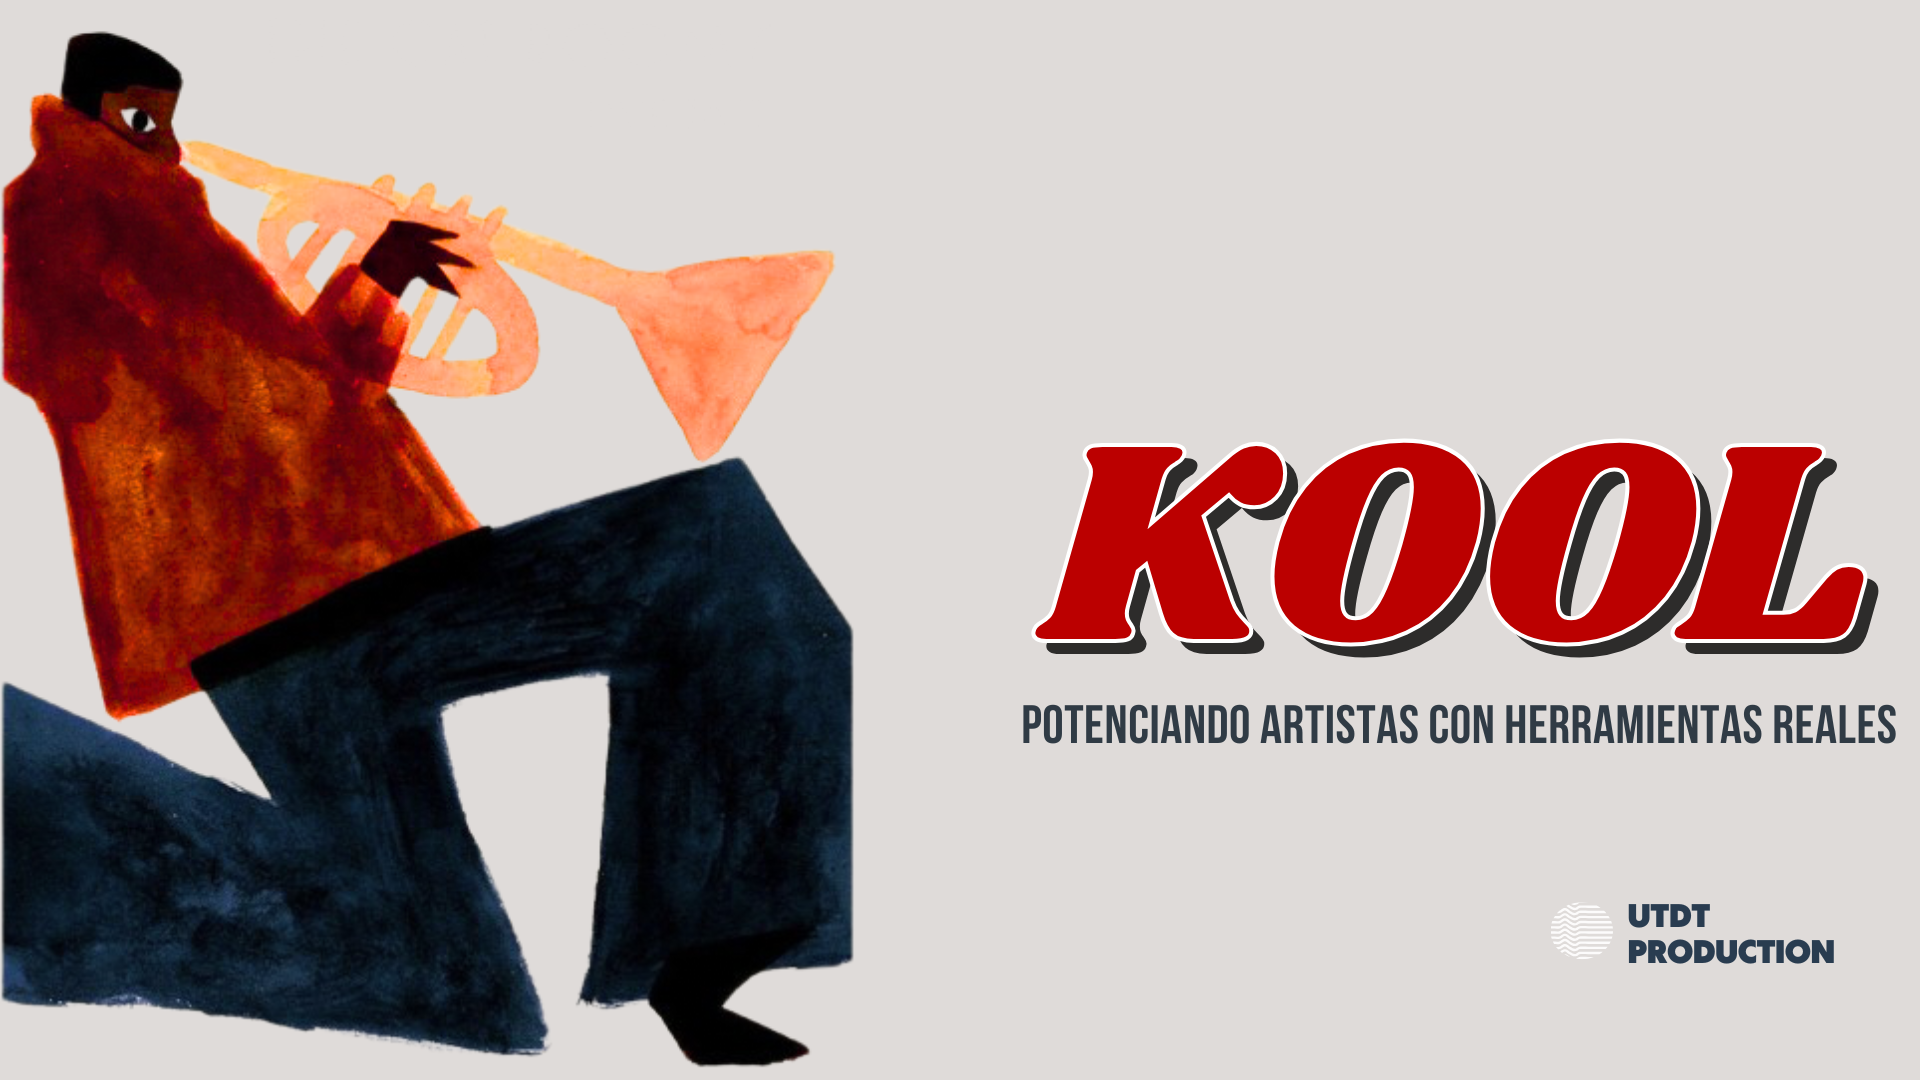
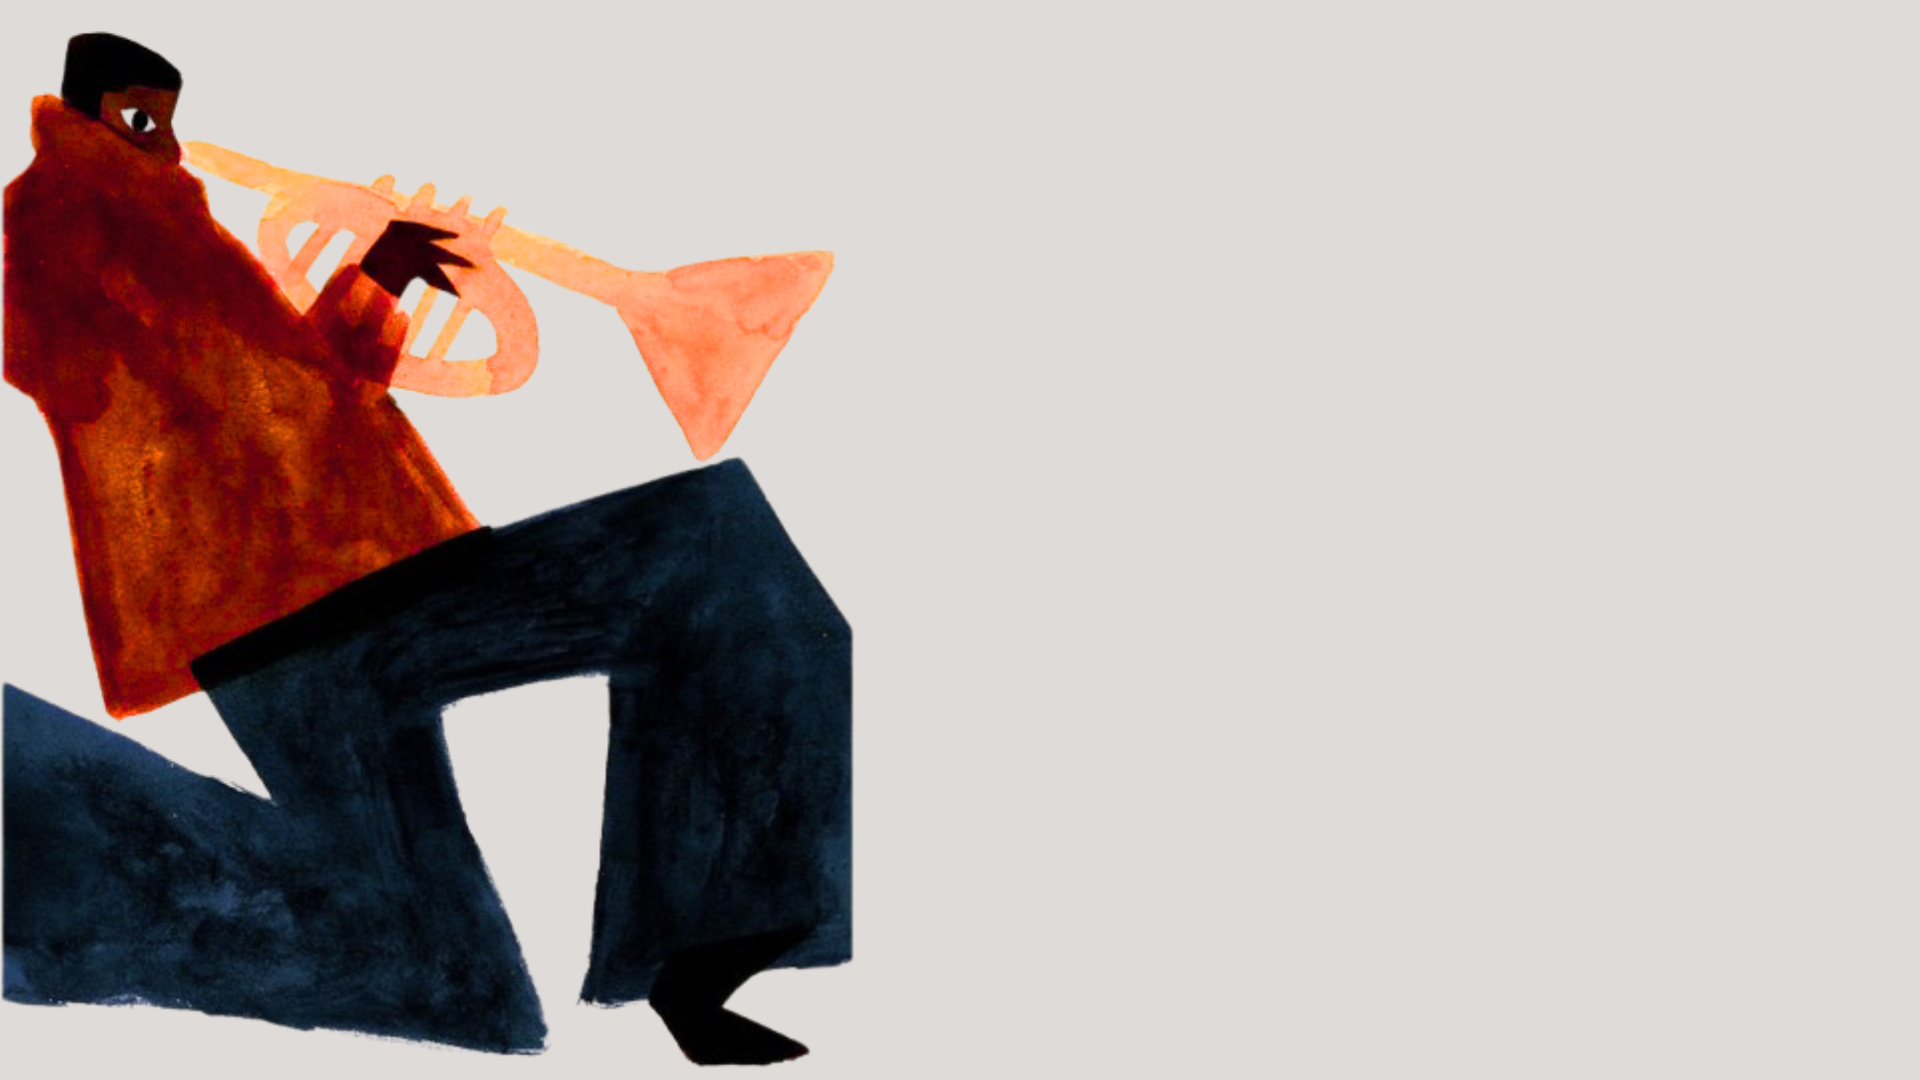
HeroSection changed

Changed region(s): [[0.5312, 0.3972, 1.0, 0.6111], [0.5312, 0.6417, 1.0, 0.7028], [0.8125, 0.825, 0.9688, 0.9167]]

diff --git a/components/hero-article.tsx b/components/hero-article.tsx
@@ -1,73 +1,35 @@
 import { Button } from "@/components/ui/button"
+import Link from "next/link"
 
 export default function HeroArticle() {
   return (
-    <section className="my-8">
-      <div className="grid grid-cols-1 lg:grid-cols-12 gap-6 lg:grid-rows-1">
-        {/* Main feature - made to fill the full height */}
-        <div className="lg:col-span-8 relative h-full flex flex-col">
-          <div className="absolute top-0 left-0 bg-primary text-white px-4 py-1 text-sm font-bold z-10">
-            EXCLUSIVE
-          </div>
-          <div className="relative flex-1 overflow-hidden">
-            <img
-              src="/images/KOOL.png"
-              alt="AI Music Revolution"
-              className="w-full h-full object-cover"
-            />
-            <div className="absolute inset-0 bg-gradient-to-t from-black/80 to-transparent"></div>
-            <div className="absolute bottom-0 left-0 right-0 p-6 text-white">
-              <h2 className="text-4xl md:text-6xl font-black leading-tight mb-4">
-                STRATEGY NEVER LOOKED THIS KOOL
-              </h2>
-              <p className="text-xl md:text-2xl font-medium mb-6 max-w-3xl">
-              Kool is your AI-powered strategist — built to grow your project. We give you the insights and tools a pro manager would — without the middleman. Your music. Your vision. Your strategy.
-
-              </p>
-              <div className="flex items-center text-white/80 text-sm mb-4">
-                <span className="font-bold mr-2">By Juan Obstrovsky</span>
-                <span>May 19, 2025</span>
-              </div>
-              <Button className="bg-primary hover:bg-primary/90 text-white">Read More</Button>
-            </div>
-          </div>
-        </div>
-
-        {/* Side articles */}
-        <div className="lg:col-span-4 flex flex-col space-y-6 h-full">
-          <div className="border-b border-secondary pb-6">
-            <div className="bg-secondary text-white inline-block px-3 py-1 text-xs font-bold mb-3">THE FUTURE</div>
-            <h3 className="text-2xl font-bold mb-2">How AI Is Changing The Way Artists Create Music</h3>
-            <p className="text-secondary/70 mb-2">
-              We believe that every artist deserves the chance to grow, connect and monetize — regardless of time, money or access. KOOL was built to remove the friction that stops most emerging talents from going pro
-            </p>
-            <div className="text-xs text-secondary/60">
-              <span className="font-bold">By Guadalupe Cardiello</span> • May 15, 2025
-            </div>
-          </div>
-
-          <div className="border-b border-secondary pb-6">
-            <div className="bg-primary text-white inline-block px-3 py-1 text-xs font-bold mb-3">SUCCESS STORY</div>
-            <h3 className="text-2xl font-bold mb-2">"I Went From 100 to 100,000 Monthly Listeners"</h3>
-            <p className="text-secondary/70 mb-2">
-              Indie artist Jamie Taylor shares how KOOL's AI manager transformed his career in just 6 months
-            </p>
-            <div className="text-xs text-secondary/60">
-              <span className="font-bold">By Francisco Morchio</span> • May 12, 2025
-            </div>
-          </div>
-
-          <div>
-            <div className="bg-secondary text-white inline-block px-3 py-1 text-xs font-bold mb-3">NEW RELEASE</div>
-            <h3 className="text-2xl font-bold mb-2">KOOL Launches Advanced Task Tracking Feature</h3>
-            <p className="text-secondary/70 mb-2">
-              New AI-powered tool helps artists track and maximize their streaming across all platforms
-            </p>
-            <div className="text-xs text-secondary/60">
-              <span className="font-bold">By Faustina Bagnat</span> • May 10, 2025
-            </div>
-          </div>
-        </div>
+    <section className="h-screen relative flex items-center justify-center">
+      {/* Imagen de fondo que cubre toda la pantalla */}
+      <div className="absolute inset-0 w-full h-full z-0">
+        <img
+          src="/images/KOOL.png"
+          alt="KOOL Background"
+          className="w-full h-full object-cover"
+        />
+        {/* Overlay para mejorar legibilidad del texto */}
+        <div className="absolute inset-0 bg-black/40"></div>
+      </div>
+      
+      {/* Contenido centrado */}
+      <div className="relative z-10 text-center max-w-4xl mx-auto px-6">
+        <h1 className="text-5xl md:text-7xl font-black text-white mb-6">
+          Strategy Never Looked This <span className="text-primary">KOOL</span>
+        </h1>
+        
+        <p className="text-xl md:text-2xl font-medium mb-10 text-white">
+          Kool is your AI-powered strategist — built to grow your project. We give you the insights and tools a pro manager would — without the middleman. Your music. Your vision. Your strategy.
+        </p>
+        
+        <Link href="/auth/signup">
+          <Button className="bg-primary hover:bg-primary/90 text-white px-8 py-4 text-lg">
+            Get Started
+          </Button>
+        </Link>
       </div>
     </section>
   )

diff --git a/components/magazine-header.tsx b/components/magazine-header.tsx
@@ -130,8 +130,8 @@ export default function MagazineHeader() {
       </div>
 
       {/* Main navigation */}
-      <div className="container mx-auto px-4 py-3 flex items-center justify-between">
-        <button className="md:hidden" onClick={() => setIsMenuOpen(!isMenuOpen)}>
+      <div className="container mx-auto px-4 py-3 flex items-center justify-center relative">
+        <button className="md:hidden absolute left-4" onClick={() => setIsMenuOpen(!isMenuOpen)}>
           {isMenuOpen ? <X size={24} /> : <Menu size={24} />}
         </button>
 
@@ -177,22 +177,12 @@ export default function MagazineHeader() {
             </Link>
           )}
         </nav>
-
-        <div className="flex items-center">
-          {!userSubscription && (
-            <Link href="#pricing">
-              <Button className="bg-primary hover:bg-primary/90 text-white rounded-none">
-                Subscribe
-              </Button>
-            </Link>
-          )}
-        </div>
       </div>
 
       {/* Mobile menu */}
       {isMenuOpen && (
         <div className="md:hidden border-t-2 border-secondary">
-          <nav className="container mx-auto px-4 py-4 flex flex-col space-y-4 font-bold text-sm uppercase">
+          <nav className="container mx-auto px-4 py-4 flex flex-col items-center space-y-4 font-bold text-sm uppercase">
             {!isHomePage && (
               <Link href="/" className="hover:text-primary py-2 border-b-2 border-secondary flex items-center gap-2">
                 <Home size={16} />

diff --git a/app/layout.tsx b/app/layout.tsx
@@ -1,7 +1,7 @@
 import type { Metadata } from 'next'
 import './globals.css'
-import MagazineHeader from '@/components/magazine-header'
 import { ThemeProvider } from '@/components/theme-provider'
+import HeaderManager from '@/components/header-manager'
 
 export const metadata: Metadata = {
   title: 'Kool - Music Management Platform',
@@ -17,10 +17,8 @@ export default function RootLayout({
     <html lang="es">
       <body>
         <ThemeProvider attribute="class" defaultTheme="light">
-          <MagazineHeader />
-          <div className="pt-32">
-            {children}
-          </div>
+          <HeaderManager />
+          {children}
         </ThemeProvider>
       </body>
     </html>

diff --git a/components/about-us.tsx b/components/about-us.tsx
@@ -5,7 +5,7 @@ export default function AboutUs() {
         <div className="bg-secondary text-white inline-block px-3 py-1 text-xs font-bold mb-3">ABOUT US</div>
         <h2 className="text-3xl md:text-4xl font-black mb-2">REVOLUTIONIZING THE MUSIC INDUSTRY</h2>
         <p className="text-lg text-secondary/70">
-          KOOL is an innovative platform combining AI and music industry expertise to empower independent artists.
+          We believe that every artist deserves the chance to grow, connect and monetize — regardless of time, money or access. KOOL was built to remove the friction that stops most emerging talents from going pro.
         </p>
       </div>
 

diff --git a/components/magazine-footer.tsx b/components/magazine-footer.tsx
@@ -10,7 +10,7 @@ export default function MagazineFooter() {
       <div className="container mx-auto px-4">
         <div className="grid grid-cols-1 md:grid-cols-4 gap-8 mb-12">
           <div className="md:col-span-2">
-            <div className="font-logo text-5xl text-primary transform -rotate-2 relative mb-4">
+            <div className="font-logo text-6xl text-primary transform relative mb-4">
               <span className="relative text-stroke-1 text-stroke-black">KOOL</span>
               <div className="absolute inset-0 transform translate-x-0.5 translate-y-0.5 text-background -z-10">KOOL</div>
             </div>

diff --git a/components/header-manager.tsx b/components/header-manager.tsx
@@ -1,0 +1,21 @@
+"use client";
+
+import { usePathname } from 'next/navigation';
+import MagazineHeader from '@/components/magazine-header';
+
+export default function HeaderManager() {
+  const pathname = usePathname();
+  const isAuthRoute = pathname?.startsWith('/auth/');
+  const isOnboardingRoute = pathname?.startsWith('/onboarding');
+  
+  if (isAuthRoute || isOnboardingRoute) {
+    return null;
+  }
+  
+  return (
+    <>
+      <MagazineHeader />
+      <div className="pt-28" />
+    </>
+  );
+} 

diff --git a/app/page.tsx b/app/page.tsx
@@ -40,8 +40,8 @@ export default function Home() {
   return (
     <div className="min-h-screen bg-white [--scroll-padding:120px] [scroll-padding-top:var(--scroll-padding)]">
       <MagazineHeader />
+      <HeroArticle />
       <main className="container mx-auto px-4 pt-10 pb-16">
-        <HeroArticle />
         <FeaturedGrid />
         <HowItWorks />
         <SuccessStories />

diff --git a/components/how-it-works.tsx b/components/how-it-works.tsx
@@ -21,7 +21,7 @@ export default function HowItWorks() {
             <span className="font-bold">By KOOL TEAM</span> • May 8, 2025
           </div>
           <Button variant="outline" className="border-secondary text-secondary hover:bg-secondary/5">
-            See KOOL in Action
+            See it in Action
           </Button>
         </div>
 
